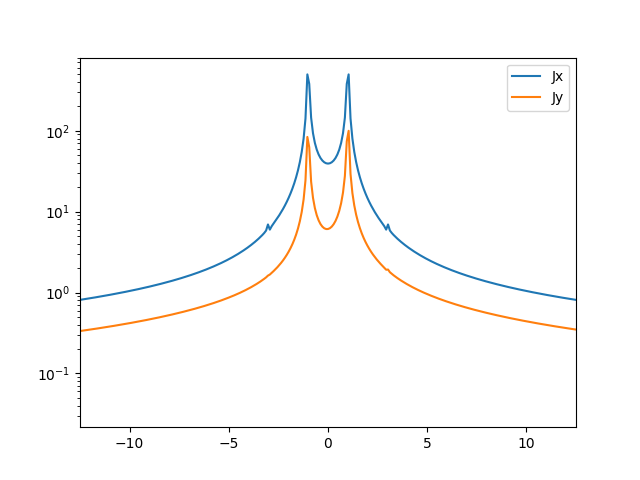
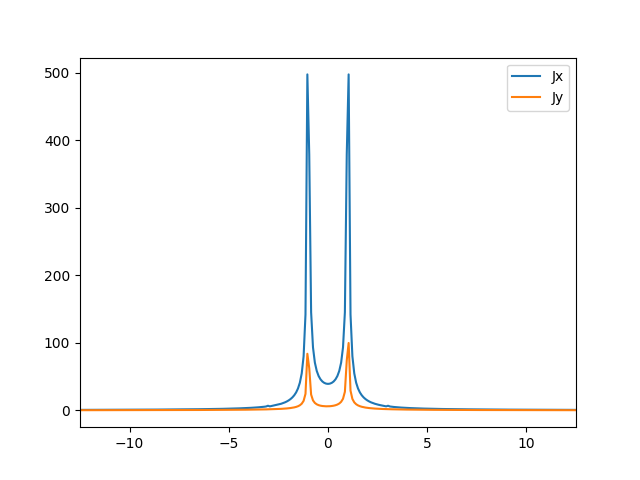
Plots are messy, but tested with no driving term and the current terms are all zero, as expected?

diff --git a/chern_insulator/main.py b/chern_insulator/main.py
@@ -37,11 +37,11 @@ whateverman = ['Real', 'Imag']
 #     plt.savefig(f"chern_insulator/plots/[{whateverman[fi]}] Current")
 #     plt.show()
 
-sampleSpacing = (np.max(timeSec) - np.min(timeSec)) / timeSec.size
-freqAxis = np.fft.fftshift(np.fft.fftfreq(timeSec.size, sampleSpacing)) / params.drivingFreq
-plt.semilogy(freqAxis, np.abs(np.fft.fftshift(np.fft.fft(current[0, :]))), label='Jx')
-plt.semilogy(freqAxis, np.abs(np.fft.fftshift(np.fft.fft(current[1, :]))), label='Jy')
-plt.xlim(-12.5, 12.5)
-plt.legend()
-plt.savefig(f"chern_insulator/plots/Current FFT.png")
-plt.show()
+# sampleSpacing = (np.max(timeSec) - np.min(timeSec)) / timeSec.size
+# freqAxis = np.fft.fftshift(np.fft.fftfreq(timeSec.size, sampleSpacing)) / params.drivingFreq
+# plt.plot(freqAxis, np.abs(np.fft.fftshift(np.fft.fft(current[0, :]))), label='Jx')
+# plt.plot(freqAxis, np.abs(np.fft.fftshift(np.fft.fft(current[1, :]))), label='Jy')
+# plt.xlim(-12.5, 12.5)
+# plt.legend()
+# plt.savefig(f"chern_insulator/plots/Current FFT.png")
+# plt.show()
